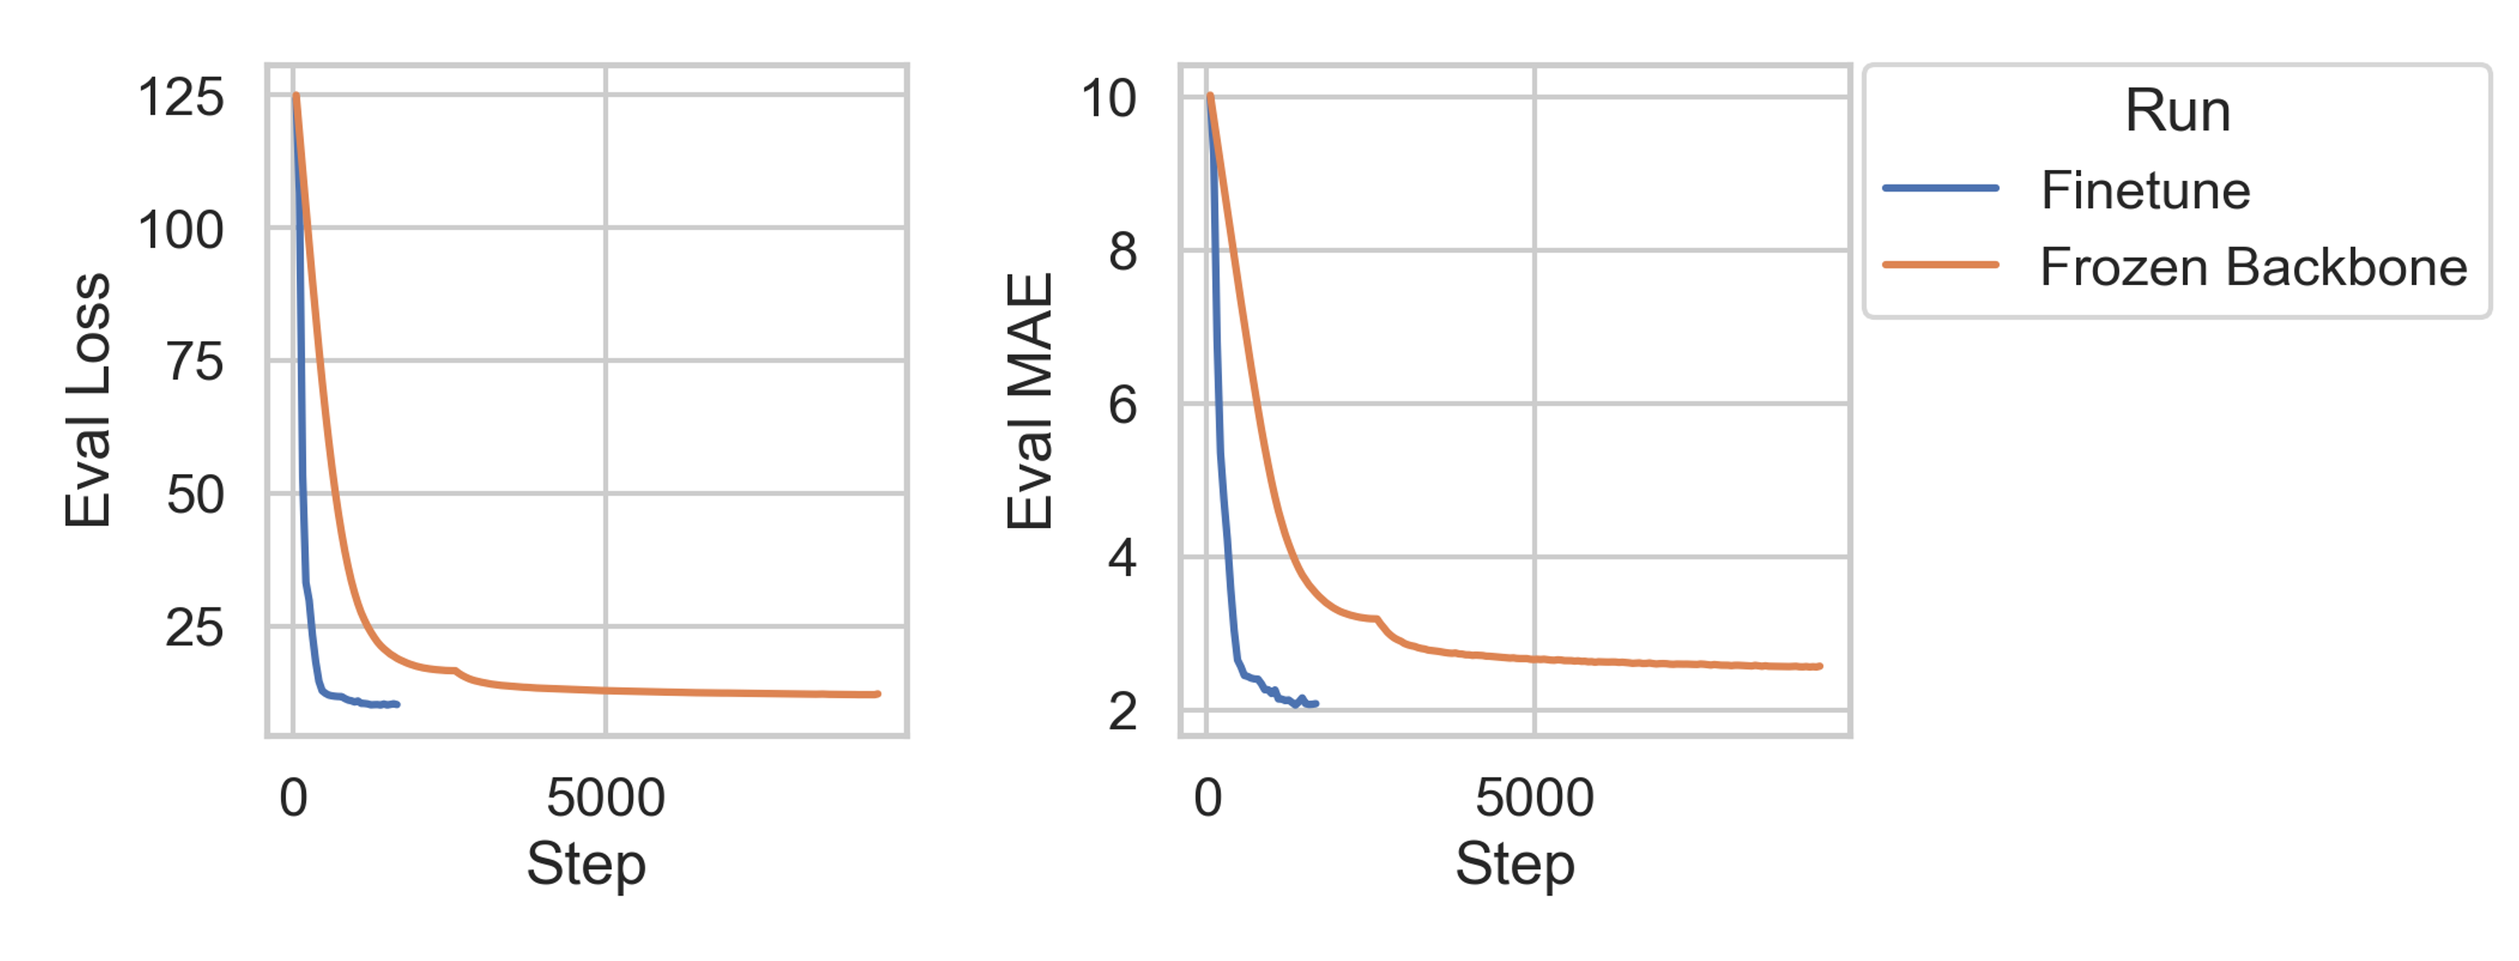
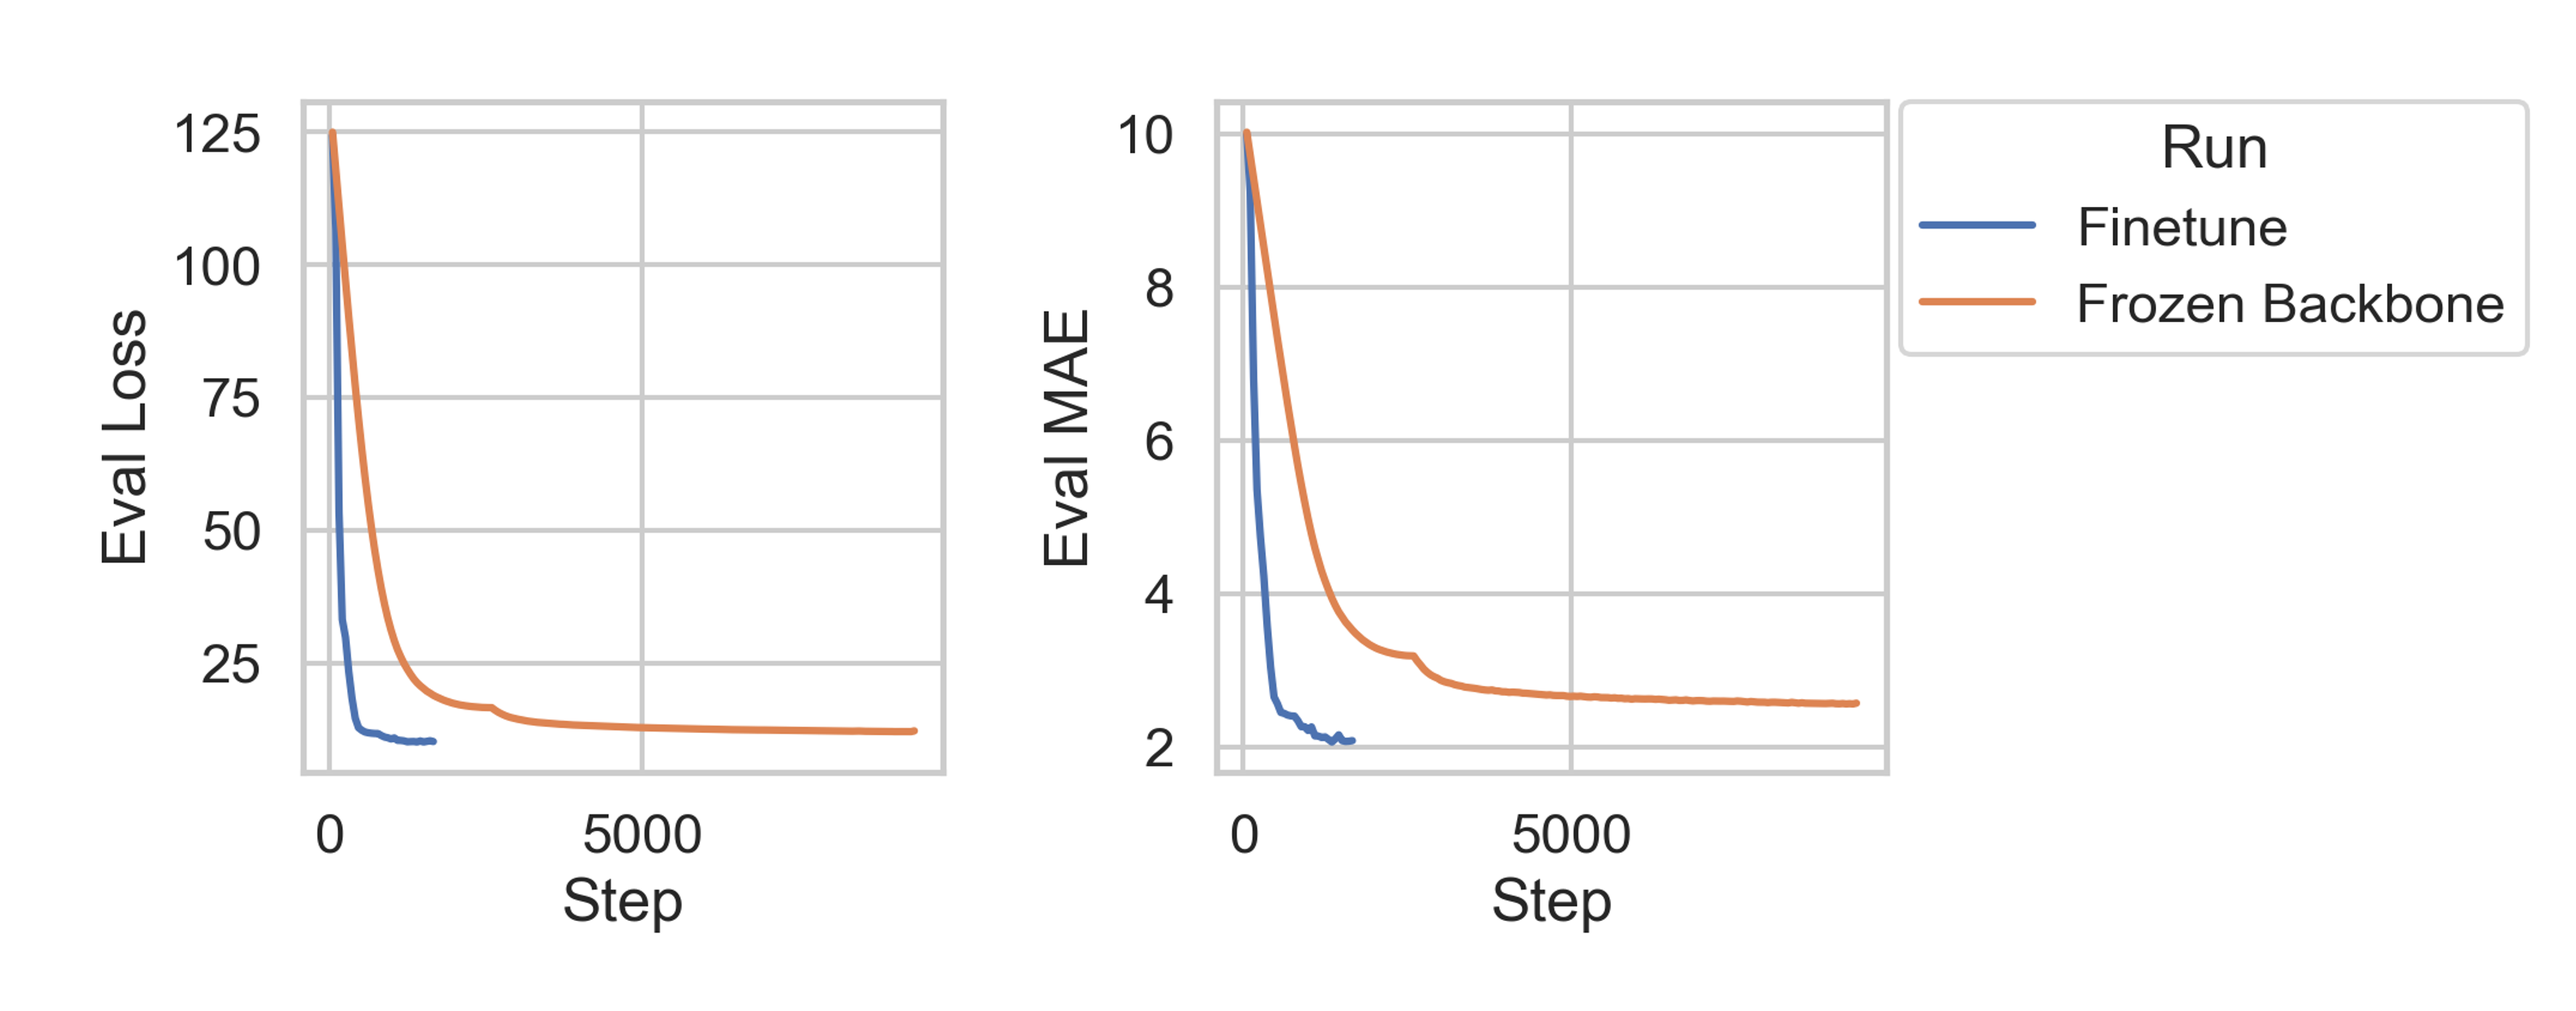
Updated figure sizes

diff --git a/_posts/2025-07-23-foundation-model3.md b/_posts/2025-07-23-foundation-model3.md
@@ -47,7 +47,7 @@ I will highlight two example tasks here: protein-level classification of subcell
 ### 1. Protein Subcellular Location (SCL) Classification
 The SCL dataset is downloaded from [FLIP Benchmark Datset](https://github.com/J-SNACKKB/FLIP/tree/main/splits/scl), and are originally from [DeepLoc-1](https://doi.org/10.1093/bioinformatics/btx431) and [DeepLoc-2](https://doi.org/10.1093/nar/gkac278). It contains protein sequences labeled with one of 10 subcellular locations: Cytoplasm, Nucleus, Cell membrane, Mitochondrion, Endoplasmic reticulum, Lysosome/Vacuole, Golgi apparatus, Peroxisome, Extracellular and Plastid.
 <div class="row justify-content-center mt-3">
-  <div class="col-md-6">
+  <div class="col-md-8">
     {% include figure.liquid loading="eager" path="assets/img/2025-07-23-foundation-model/SCL.jpg" class="img-fluid" %}
     <div class="caption mt-2 text-center">
       Figure 1: Distributioon of protein subcellular locations in the SCL dataset.
@@ -58,7 +58,7 @@ The SCL dataset is downloaded from [FLIP Benchmark Datset](https://github.com/J-
 We used the ProtBert model as the backbone pLM, and fine-tuned it using LoRA for the SCL classification task. We compared its performance against a frozen backbone ProtBert with an MLP head. The results are shown in Figure 1. We can see that the LoRA fine-tuned ProtBert outperforms the frozen backbone ProtBert with MLP head across the eval loss, accuracy, and F1 metrics. 
 
 <div class="row justify-content-center mt-3">
-  <div class="col-md-6">
+  <div class="col-md-12">
     {% include figure.liquid loading="eager" path="assets/img/2025-07-23-foundation-model/SCL_plots.jpg" class="img-fluid" %}
     <div class="caption mt-2 text-center">
       Figure 2: Comparing the performance of LoRA fine-tuned ProtBert against frozen backbone ProtBert with MLP head, on the SCL classification task.
@@ -75,7 +75,7 @@ The SETH dataset quantifies residue disorder from NMR chemical shifts. This data
 
 
 <div class="row justify-content-center mt-3">
-  <div class="col-md-6">
+  <div class="col-md-8">
     {% include figure.liquid loading="eager" path="assets/img/2025-07-23-foundation-model/Chezod.jpg" class="img-fluid" %}
     <div class="caption mt-2 text-center">
       Figure 3. Distribution of residue disorder scores in the SETH dataset.
@@ -86,7 +86,7 @@ The SETH dataset quantifies residue disorder from NMR chemical shifts. This data
 We again used the ProtBert model as the backbone pLM, and fine-tuned it using LoRA for the residue disorder regression task. The results are shown in Figure 4. We can see that again, the LoRA fine-tuned ProtBert outperforms the frozen backbone ProtBert with MLP head for the mean absolute error. 
 
 <div class="row justify-content-center mt-3">
-  <div class="col-md-6">
+  <div class="col-md-8">
     {% include figure.liquid loading="eager" path="assets/img/2025-07-23-foundation-model/Chezod_plots.jpg" class="img-fluid" %}
     <div class="caption mt-2 text-center">
       Figure 4: Comparing the performance of LoRA fine-tuned ProtBert against frozen backbone ProtBert with MLP head, on the residue disorder regression task.

diff --git a/_pages/about.md b/_pages/about.md
@@ -26,7 +26,7 @@ latest_posts:
 
 Hi, I'm Leerang! I am a machine learning scientist interested in the intersection of biology, engineering, and machine learning. 
 
-Currently I am an AI Research Scientist at [1910 Genetics](https://1910genetics.com/) leading our early efforts in designing a virtual cell model that would enable a rational design of complex gene and cell therapies. Previously, I worked as a data scientist developing next-generation vaccines at [Apriori Bio](https://aprioribio.com/), where I developed deep learning and statistical models for prediction of viral evolution, epitope-paratope prediction, high-throughput library design, and protein sequence design. A provisional patent on flu vaccine has been filed based on my work. Prior to that, I was an [AI fellow at Flagship Pioneering](https://www.flagshippioneering.com/join/fellows#chapter-6) in summer of 2023, where I worked on venture creation ideas related to cutting-edge AI tools in biology such as single-cell transcriptomics foundation model. 
+Currently I am an AI Research Scientist at [1910 Genetics](https://1910genetics.com/) leading our early efforts in designing a virtual cell model that would enable a rational design of complex gene and cell therapies. Previously, I worked as a data scientist developing next-generation vaccines at [Apriori Bio](https://aprioribio.com/), where I developed deep learning and statistical models for prediction of viral evolution, epitope-paratope prediction, high-throughput library design, and protein sequence design. Prior to that, I was an [AI fellow at Flagship Pioneering](https://www.flagshippioneering.com/join/fellows#chapter-6) in summer of 2023, where I worked on venture creation ideas related to cutting-edge AI tools in biology such as single-cell transcriptomics foundation model. 
 
 I received my PhD from MIT in October 2023, advised by [Prof. Arup Chakraborty](https://cheme.mit.edu/profile/arup-k-chakraborty/). At MIT, I developed computational models of the immune system's response to vaccination, with the goal of developing more effective vaccination strategies. One of my projects on a [novel vaccination scheme](https://news.mit.edu/2024/two-dose-schedule-could-make-hiv-vaccines-more-effective-0920), along with other related studies, have now led to a Phase 1 clinical trial of [HIV vaccine](https://clinicaltrials.gov/study/NCT05471076). Prior to that, I earned my Bachelor's degree in chemical engineering from Columbia University, where I worked on [developing novel catalysts for key reactions in fuel cell technologies](https://www.sciencedirect.com/science/article/abs/pii/S0378775315005704). 
 
